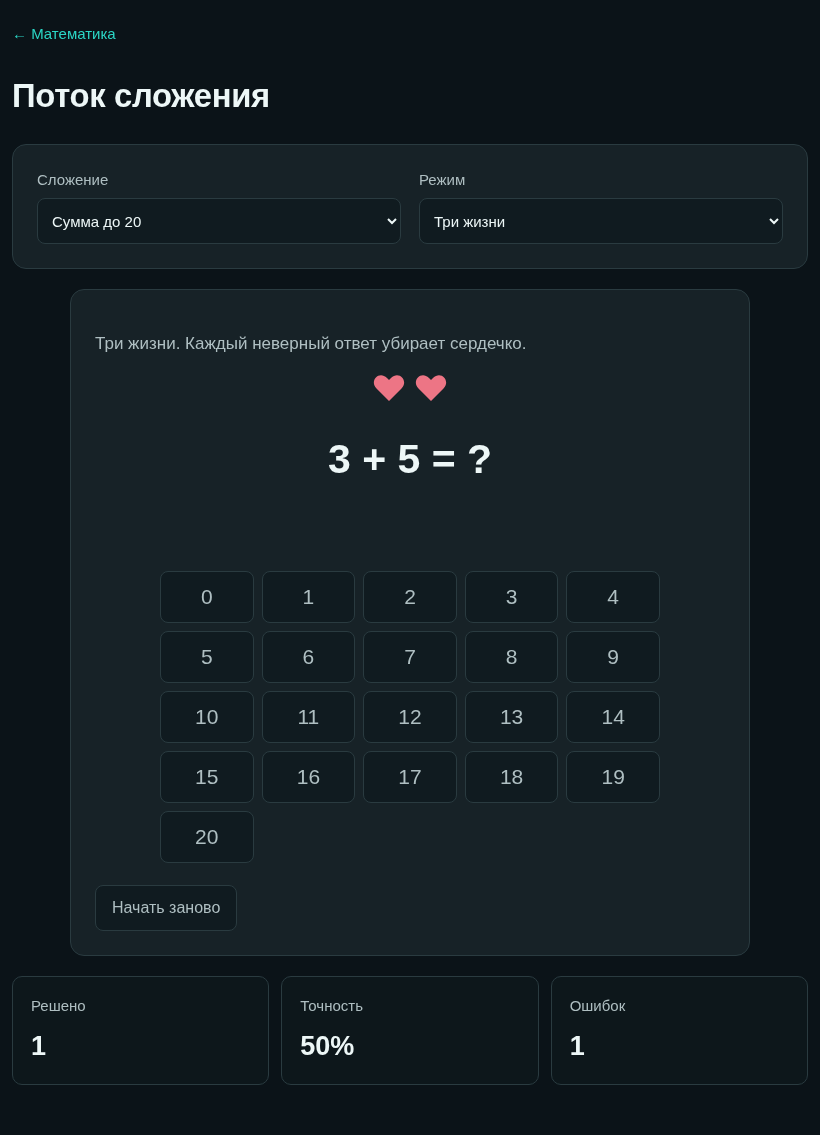
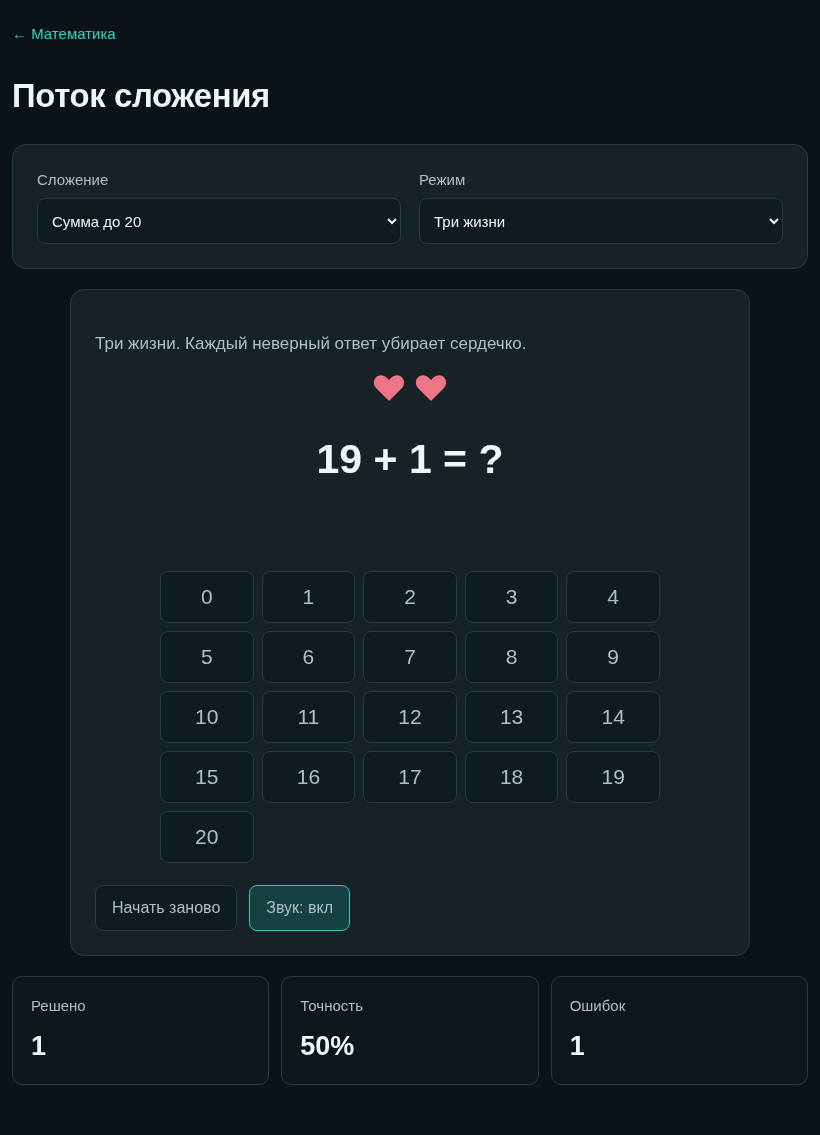
Play distinct answer clicks in addition flow with inline sound toggle

Changed region(s): [[0.3963, 0.37, 0.5488, 0.4317], [0.3049, 0.7709, 0.4268, 0.8326], [0.5793, 0.37, 0.6098, 0.4317]]

diff --git a/src/modules/mathlab/addition-flow.ts b/src/modules/mathlab/addition-flow.ts
@@ -1,5 +1,6 @@
 import type {MountFn} from '../../main';
 import {el,button} from '../../core/ui';
+import {initializeMoveSound,playInteractionSound,moveSoundEnabled,setMoveSoundEnabled} from '../../core/move-sound';
 import './styles.css';
 export interface Addition {a:number;b:number}
 export const additionTotal=(task:Addition)=>task.a+task.b;
@@ -30,6 +31,7 @@ export function validFlow(value:unknown):value is StoredFlow{
 }
 const memory=new Map<string,FlowProgress>();
 export const mountAdditionFlow:MountFn=(root,ctx)=>{
+ initializeMoveSound();
  const storageKey=`sciencechess-mathlab:v1:${ctx.profile.id}:addition-flow`;
  let saved:unknown=memory.get(storageKey);try{if(!saved)saved=JSON.parse(localStorage.getItem(storageKey)||'null');}catch{}
  let deck=new AdditionDeck(validFlow(saved)?saved.limit:10);
@@ -46,6 +48,10 @@ export const mountAdditionFlow:MountFn=(root,ctx)=>{
  const equation=el('div',{class:'ml-equation',role:'status','aria-live':'polite'});
  const feedback=el('p',{class:'ml-flow-feedback',role:'status','aria-live':'polite'});
  const pad=el('div',{class:'ml-keypad ml-flow-keypad',role:'group','aria-label':'Выбери сумму'});
+ const sound=button('',()=>{setMoveSoundEnabled(!moveSoundEnabled());renderSound();if(moveSoundEnabled())playInteractionSound('answer',false);});
+ sound.setAttribute('data-action-sound','manual');
+ function renderSound(){sound.textContent=moveSoundEnabled()?'Звук: вкл':'Звук: выкл';sound.setAttribute('aria-label','Звук нажатий');sound.setAttribute('aria-pressed',String(moveSoundEnabled()));}
+ renderSound();
  const stats=el('div',{class:'ml-stats'}),notice=el('p',{class:'ml-muted'});
  function persist(){memory.set(storageKey,{...state,task:{...state.task}});try{localStorage.setItem(storageKey,JSON.stringify(state));}catch{notice.textContent='Прогресс сохраняется только в этой вкладке.';}}
  function renderStats(){const attempted=state.solved+(state.hadError?1:0);stats.replaceChildren(...[['Решено',state.solved],['Точность',attempted?`${Math.round(state.correct/attempted*100)}%`:'—'],['Ошибок',state.errors]].map(([title,value])=>el('div',{class:'ml-stat'},[el('span',{},[String(title)]),el('strong',{},[String(value)])])));}
@@ -64,6 +70,7 @@ export const mountAdditionFlow:MountFn=(root,ctx)=>{
   equation.textContent=`${state.task.a} + ${state.task.b} = ?`;pad.querySelectorAll<HTMLButtonElement>('button').forEach(b=>{b.disabled=state.ended;b.removeAttribute('aria-pressed');});renderStats();}
  function answer(n:number){
   if(disposed||locked)return;
+  playInteractionSound('answer',false);
   if(n!==additionTotal(state.task)){
    state.hadError=true;state.errors++;
    if(state.mode!=='endless'){state.lives--;state.ended=state.lives===0;}
@@ -83,11 +90,11 @@ export const mountAdditionFlow:MountFn=(root,ctx)=>{
   state.task=deck.next(solved);state.hadError=false;persist();renderStats();
   timer=window.setTimeout(()=>{timer=undefined;if(disposed)return;locked=false;feedback.textContent='';show();},350);
  }
- function keypad(){pad.replaceChildren();for(let n=0;n<=state.limit;n++){const b=button(String(n),()=>answer(n));b.dataset.value=String(n);pad.append(b);}}
+ function keypad(){pad.replaceChildren();for(let n=0;n<=state.limit;n++){const b=button(String(n),()=>answer(n));b.dataset.value=String(n);b.setAttribute('data-action-sound','manual');pad.append(b);}}
  function reset(limit:10|20=state.limit,mode:FlowMode=state.mode){if(timer!==undefined)clearTimeout(timer);timer=undefined;locked=false;deck=new AdditionDeck(limit);state={mode,lives:mode==='lives'?3:mode==='survival'?1:0,ended:false,version:1,limit,task:deck.next(),hadError:false,solved:0,correct:0,errors:0};feedback.textContent='';persist();keypad();show();}
  modeSelect.addEventListener('change',()=>reset(state.limit,modeSelect.value as FlowMode));
  settings.addEventListener('change',()=>reset(Number(settings.value) as 10|20));
- page.append(el('a',{href:'#math',class:'ml-back'},['← Математика']),el('h1',{},['Поток сложения']),el('section',{class:'ml-panel'},[el('label',{class:'ml-field'},[el('span',{},['Сложение']),settings]),el('label',{class:'ml-field'},[el('span',{},['Режим']),modeSelect])]),el('section',{class:'ml-panel ml-flow-stage'},[instruction,lives,equation,feedback,result,pad,el('div',{class:'ml-actions'},[button('Начать заново',()=>reset())])]),stats,notice);
+ page.append(el('a',{href:'#math',class:'ml-back'},['← Математика']),el('h1',{},['Поток сложения']),el('section',{class:'ml-panel'},[el('label',{class:'ml-field'},[el('span',{},['Сложение']),settings]),el('label',{class:'ml-field'},[el('span',{},['Режим']),modeSelect])]),el('section',{class:'ml-panel ml-flow-stage'},[instruction,lives,equation,feedback,result,pad,el('div',{class:'ml-actions'},[button('Начать заново',()=>reset()),sound])]),stats,notice);
  root.append(page);keypad();show();
  return ()=>{disposed=true;if(timer!==undefined)clearTimeout(timer);};
 };

diff --git a/src/core/move-sound.ts b/src/core/move-sound.ts
@@ -68,8 +68,8 @@ export function initializeMoveSound(): void {
   document.addEventListener('click', event => {
     if (!event.isTrusted || !(event.target instanceof Element)) return;
     const target = event.target.closest('button,a[href],summary,[role="button"]');
-    // Pointer-driven exercise boards emit at their accepted-action boundary.
-    if (!target || target.matches('.ks-board') || !usable(target)) return;
+    // Boards and manually marked controls emit at their accepted-action boundary.
+    if (!target || target.matches('.ks-board,[data-action-sound="manual"]') || !usable(target)) return;
     const kind = target instanceof HTMLButtonElement && target.type === 'submit' ? 'answer' : 'choice';
     // Let exercise handlers take their response timestamp before creating audio.
     queueMicrotask(() => playInteractionSound(kind, false));

diff --git a/docs/addition-flow/README.md b/docs/addition-flow/README.md
@@ -6,6 +6,7 @@ MathLab → Поток сложения, прямая ссылка `#math-additi
 - Бесконечная последовательность сложений с положительными целыми слагаемыми, сумма до 10 по умолчанию или до 20.
 - Выбор ответа кнопками 0–10 / 0–20 без текстового поля и экранной клавиатуры. Доступны обычные Tab/Enter/Space.
 - Правильный ответ блокирует ввод на 350 мс, показывает подтверждение и автоматически открывает следующий пример. Неправильный оставляет текущий пример, правильный ответ заранее не раскрывается.
+- При принятом ответе звучит короткий деревянный стук. Кнопка «Звук: вкл/выкл» использует общую настройку звуков сайта; выключение сохраняется. На автоматическом переходе и заблокированном вводе звука нет. Локальный обработчик ответа воспроизводит звук один раз, общий обработчик кнопок пропускает элементы с `data-action-sound="manual"`.
 - Решено — число завершённых примеров; точность — доля примеров, решённых с первой попытки; ошибки — число неверных ответов. Ограничения времени нет; в режимах выживания попытка заканчивается при потере всех жизней. Точность включает текущий пример с ошибкой, даже если он пока не решён.
 - Перемешанная колода из 25 или 100 разных пар заново перемешивается после исчерпания. Соседние пары не повторяются, включая перестановку слагаемых. Память не растёт с продолжительностью работы.
 - Локальный снимок прогресса обновляется после каждого ответа: текущий пример, первая попытка, счётчики, диапазон, режим, оставшиеся жизни и завершение попытки. Старые снимки автоматически открываются в бесконечном режиме без потери прогресса. После перезагрузки можно продолжить. Изменение диапазона и «Начать заново» сбрасывают поток. При недоступном localStorage работает сохранение в памяти вкладки.
@@ -14,4 +15,4 @@ MathLab → Поток сложения, прямая ссылка `#math-additi
 
 Код: `src/modules/mathlab/addition-flow.ts`; локальные стили — существующий `styles.css`. Пункт маршрутизации в `main.ts`, карточка в `mathlab/index.ts`. Без новых зависимостей и серверной части.
 
-Проверки: `tests/addition-flow.test.ts`, `node e2e/addition-flow.mjs`, `npm run test:math`, `npm run build`. Скриншоты `screenshots/{phone,tablet,desktop}.png`. Браузерная проверка — Chromium с эмуляцией касания, физические iPad/Safari не проверены.
+Проверки: `tests/addition-flow.test.ts`, `node e2e/addition-flow.mjs`, `node e2e/addition-sound.mjs`, `node e2e/move-sound.mjs`, `npm run test:math`, `npm run build`. Скриншоты `screenshots/{phone,tablet,desktop}.png`. Браузерная проверка — Chromium с эмуляцией касания, физические iPad/Safari не проверены.
